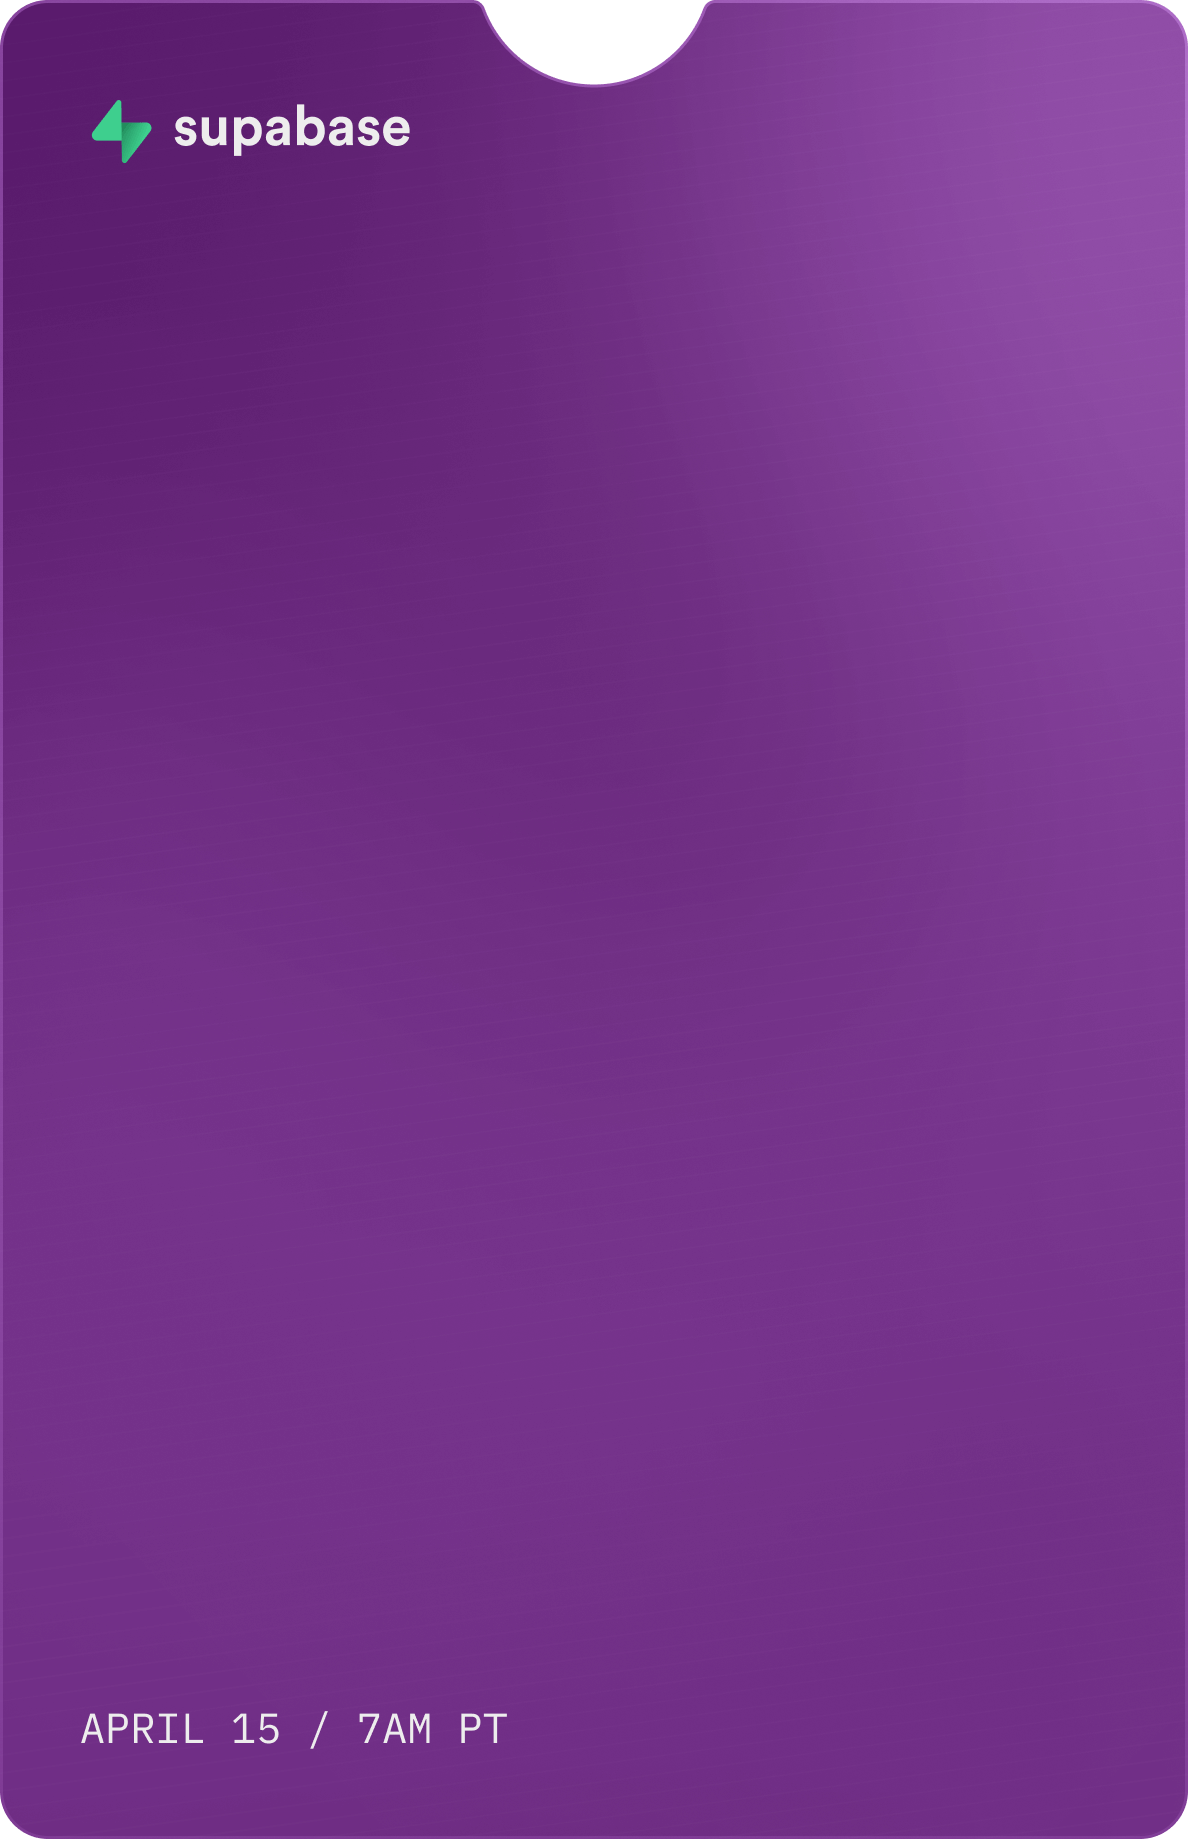
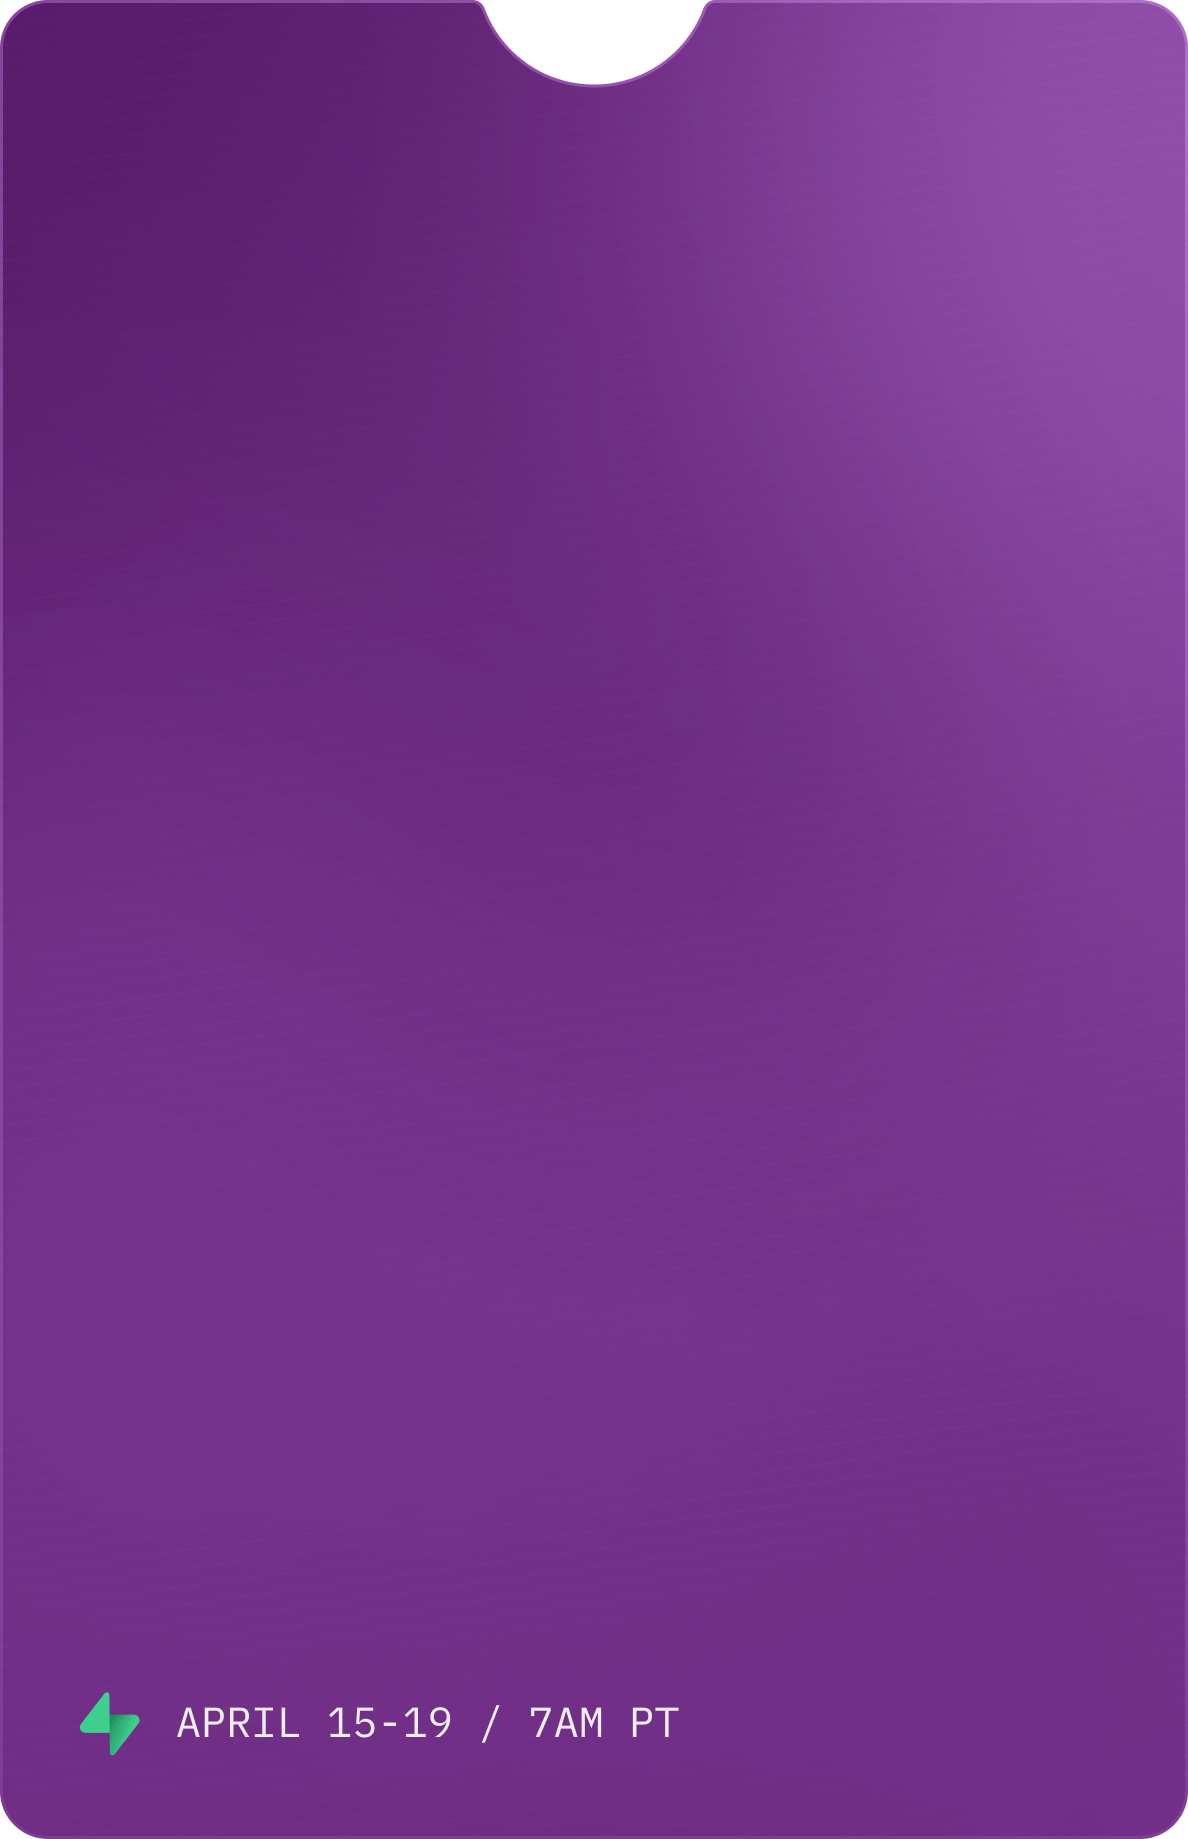
update ticketing page title

diff --git a/apps/www/supabase/functions/lw11-og/handler-prev.tsx b/apps/www/supabase/functions/lw11-og/handler-prev.tsx
@@ -21,20 +21,20 @@ const LW_MATERIALIZED_VIEW = 'lw11_tickets_platinum'
 
 const STYLING_CONGIF = {
   regular: {
-    BACKGROUND: '#f1f1f1',
-    FOREGROUND: '#11181C',
-    FOREGROUND_LIGHT: '#6c7277',
-    TICKET_FOREGROUND: '#F8F9FA',
-    TICKET_FOREGROUND_LIGHT: '#8B9092',
-    BORDER: '#4e4e4e',
-  },
-  platinum: {
     BACKGROUND: '#060809',
     FOREGROUND: '#F8F9FA',
     FOREGROUND_LIGHT: '#8B9092',
+    TICKET_FOREGROUND: '#F8F9FA',
+    TICKET_FOREGROUND_LIGHT: '#8B9092',
+    BORDER: '#303030',
+  },
+  platinum: {
+    BACKGROUND: '#f1f1f1',
+    FOREGROUND: '#11181C',
+    FOREGROUND_LIGHT: '#6c7277',
     TICKET_FOREGROUND: '#11181C',
     TICKET_FOREGROUND_LIGHT: '#6c7277',
-    BORDER: '#adadad',
+    BORDER: '#303030',
   },
   secret: {
     BACKGROUND: '#060809',
@@ -42,7 +42,7 @@ const STYLING_CONGIF = {
     FOREGROUND_LIGHT: '#8B9092',
     TICKET_FOREGROUND: '#F8F9FA',
     TICKET_FOREGROUND_LIGHT: '#F8F9FA',
-    BORDER: '#959595',
+    BORDER: '#303030',
   },
 }
 
@@ -98,7 +98,7 @@ export async function handler(req: Request) {
     const fontData = await font
     const monoFontData = await mono_font
     const numDigits = `${Number(ticketNumber)}`.length
-    const prefix = `00000000`.slice(numDigits)
+    // const prefix = `00000000`.slice(numDigits)
     const HAS_ROLE = !!metadata?.role
     const HAS_COMPANY = !!metadata?.company
     const HAS_LOCATION = !!metadata?.location
@@ -112,36 +112,30 @@ export async function handler(req: Request) {
     const TICKET_RATIO = 396 / 613
     const TICKET_HEIGHT = TICKET_WIDTH / TICKET_RATIO
     const TICKET_POS_TOP = OG_PADDING_Y
-    const TICKET_POS_LEFT = 520
+    const TICKET_POS_LEFT = 470
     const TICKET_PADDING_X = 40
     const TICKET_PADDING_Y = 40
-    const LOGO_WIDTH = 40
-    // const LOGO_RATIO = 581 / 113
-    const LOGO_RATIO = 436 / 449
+    const LOGO_WIDTH = 160
+    const LOGO_RATIO = 145 / 79
     // Select one of 30 pre generated bg images base on ticket number
     const BG_NUMBER = `000${(ticketNumber % 30) + 1}`.slice(-3)
     const profileImg = `https://github.com/${username}.png?size=100`
-    const DISPLAY_NAME = name ?? username
 
     const BACKGROUND = {
       regular: {
-        OG: `${STORAGE_URL}/assets/backgrounds/platinum/${BG_NUMBER}.png`,
-        BG: `${STORAGE_URL}/assets/shape/v2/lw11_ticket_regular.png?t=1`,
-        // LOGO: `${STORAGE_URL}/assets/lw11_logo_white.svg`,
-        // LOGO: `${STORAGE_URL}/assets/supabase/supabase-logo-wordmark--light.png`,
-        LOGO: `${STORAGE_URL}/assets/supabase/supabase-logo-icon.png`,
+        OG: `${STORAGE_URL}/assets/backgrounds/regular/${BG_NUMBER}.png`,
+        BG: `${STORAGE_URL}/assets/shape/lw11_ticket_regular.png?t=as`,
+        LOGO: `${STORAGE_URL}/assets/lw11_logo_white.svg`,
       },
       platinum: {
-        OG: `${STORAGE_URL}/assets/backgrounds/regular/${BG_NUMBER}.png`,
-        BG: `${STORAGE_URL}/assets/shape/v2/lw11_ticket_platinum.png?t=1`,
-        // LOGO: `${STORAGE_URL}/assets/supabase/supabase-logo-wordmark--dark.png`,
-        LOGO: `${STORAGE_URL}/assets/supabase/supabase-logo-icon.png`,
+        OG: `${STORAGE_URL}/assets/backgrounds/platinum/${BG_NUMBER}.png`,
+        BG: `${STORAGE_URL}/assets/shape/lw11_ticket_platinum.png?t=as`,
+        LOGO: `${STORAGE_URL}/assets/lw11_logo_black.svg`,
       },
       secret: {
         OG: `${STORAGE_URL}/assets/backgrounds/secret/${BG_NUMBER}.png`,
-        BG: `${STORAGE_URL}/assets/shape/v2/lw11_ticket_purple.png?t=1`,
-        // LOGO: `${STORAGE_URL}/assets/supabase/supabase-logo-wordmark--dark.png`,
-        LOGO: `${STORAGE_URL}/assets/supabase/supabase-logo-icon.png`,
+        BG: `${STORAGE_URL}/assets/shape/lw11_ticket_purple.png?t=c`,
+        LOGO: `${STORAGE_URL}/assets/lw11_logo_white.svg`,
       },
     }
 
@@ -190,6 +184,8 @@ export async function handler(req: Request) {
                 height: TICKET_HEIGHT,
                 margin: 0,
                 borderRadius: '26px',
+                // border: `1px solid blue`,
+                // boxShadow: '0px 4px 45px rgba(0, 0, 0, 0.1)',
               }}
             >
               <img
@@ -202,33 +198,11 @@ export async function handler(req: Request) {
                   zIndex: '1',
                   margin: 0,
                   borderRadius: '26px',
+                  // border: `1px solid ${STYLING_CONGIF[ticketType].BORDER}`,
+                  // boxShadow: '0px 0px 50px rgba(0, 0, 0, 0.25)',
                 }}
                 src={BACKGROUND[ticketType].BG}
               />
-
-              {/* Ticket No  */}
-              <p
-                style={{
-                  display: 'flex',
-                  justifyContent: 'flex-start',
-                  position: 'absolute',
-                  top: TICKET_PADDING_Y + 15,
-                  left: TICKET_PADDING_X,
-                  textAlign: 'left',
-                  width: '50%',
-                  color: STYLING_CONGIF[ticketType].TICKET_FOREGROUND_LIGHT,
-                  margin: '0',
-                  marginBottom: '5',
-                  fontFamily: '"SourceCodePro"',
-                  fontSize: '16',
-                  textTransform: 'uppercase',
-                  letterSpacing: '0.35rem',
-                  lineHeight: '120%',
-                  opacity: 0.65,
-                }}
-              >
-                {`NO ${prefix}${ticketNumber}`}
-              </p>
 
               {/* Name & username */}
               <div
@@ -246,7 +220,6 @@ export async function handler(req: Request) {
                   textOverflow: 'clip',
                   textAlign: 'left',
                   marginBottom: '10px',
-                  paddingBottom: '10px',
                 }}
               >
                 {HAS_AVATAR && (
@@ -260,6 +233,7 @@ export async function handler(req: Request) {
                       marginBottom: 10,
                       borderRadius: '100%',
                       border: `1px solid ${STYLING_CONGIF[ticketType].BORDER}`,
+                      // boxShadow: '0px 0px 50px rgba(0, 0, 0, 0.25)',
                     }}
                     src={profileImg}
                   />
@@ -273,12 +247,9 @@ export async function handler(req: Request) {
                     lineHeight: '105%',
                     display: 'flex',
                     marginBottom: '6px',
-                    paddingBottom: '6px',
-                    overflow: 'hidden',
-                    maxHeight: '200px',
                   }}
                 >
-                  {DISPLAY_NAME}
+                  {name ?? username}
                 </p>
 
                 <div
@@ -288,9 +259,6 @@ export async function handler(req: Request) {
                     display: 'flex',
                     fontSize: '32',
                     margin: '0',
-                    overflow: 'hidden',
-                    maxHeight: '90px',
-                    paddingBottom: '6px',
                   }}
                 >
                   {HAS_NO_META && username && `@${username}`}
@@ -299,6 +267,27 @@ export async function handler(req: Request) {
                 </div>
               </div>
             </div>
+            {/* Ticket No  */}
+            {/* <p
+              style={{
+                display: 'flex',
+                position: 'absolute',
+                bottom: TICKET_PADDING_Y,
+                left: TICKET_PADDING_X + TICKET_POS_LEFT,
+                width: '50%',
+                color: STYLING_CONGIF[ticketType].TICKET_FOREGROUND_LIGHT,
+                margin: '0',
+                marginBottom: '5',
+                fontFamily: '"SourceCodePro"',
+                fontSize: '23',
+                textTransform: 'uppercase',
+                letterSpacing: '0.35rem',
+                lineHeight: '120%',
+                // border: '1px solid white',
+              }}
+            >
+              {`NO ${prefix}${ticketNumber}`}
+            </p> */}
 
             <div
               style={{
@@ -310,20 +299,14 @@ export async function handler(req: Request) {
                 flexDirection: 'column',
                 width: TICKET_POS_LEFT - OG_PADDING_X,
                 alignItems: 'flex-start',
-                justifyContent: 'center',
-                letterSpacing: '0.15rem',
-                lineHeight: '110%',
+                fontFamily: '"SourceCodePro"',
+                fontSize: 34,
+                textTransform: 'uppercase',
+                letterSpacing: '0.35rem',
+                lineHeight: '120%',
               }}
             >
-              <div
-                style={{
-                  display: 'flex',
-                  position: 'absolute',
-                  top: 10,
-                  left: 0,
-                  marginBottom: '40',
-                }}
-              >
+              <div style={{ display: 'flex', marginBottom: '40' }}>
                 <img
                   src={BACKGROUND[ticketType].LOGO}
                   width={LOGO_WIDTH}
@@ -333,42 +316,19 @@ export async function handler(req: Request) {
 
               <p
                 style={{
-                  display: 'flex',
-                  flexDirection: 'column',
-                  marginBottom: 60,
-                  fontSize: 48,
-                  color: STYLING_CONGIF[ticketType].FOREGROUND_LIGHT,
+                  margin: '0',
                 }}
               >
-                <span
-                  style={{
-                    display: 'flex',
-                    margin: 0,
-                    color: STYLING_CONGIF[ticketType].FOREGROUND_LIGHT,
-                  }}
-                >
-                  Join us for a
-                </span>
-                <span
-                  style={{
-                    display: 'flex',
-                    margin: 0,
-                    color: STYLING_CONGIF[ticketType].FOREGROUND,
-                  }}
-                >
-                  Special Event
-                </span>
+                April 15
               </p>
               <p
                 style={{
-                  margin: '0',
-                  fontFamily: '"SourceCodePro"',
-                  fontSize: 26,
-                  textTransform: 'uppercase',
+                  display: 'flex',
+                  margin: 0,
                   color: STYLING_CONGIF[ticketType].FOREGROUND_LIGHT,
                 }}
               >
-                April 15-19 / 7AM PT
+                7AM PT
               </p>
             </div>
           </div>

diff --git a/apps/www/components/LaunchWeek/11/Ticket/TicketingFlow.tsx b/apps/www/components/LaunchWeek/11/Ticket/TicketingFlow.tsx
@@ -78,12 +78,14 @@ const TicketingFlow = () => {
                     animate={animate}
                     exit={exit}
                     className={cn(
-                      'w-full min-h-[400px] max-w-2xl mx-auto flex flex-col justify-center gap-4 md:gap-8 transition-all opacity-0 invisible',
+                      'w-full min-h-[400px] max-w-2xl mx-auto flex flex-col justify-center gap-4 md:gap-8 lg:gap-12 transition-all opacity-0 invisible',
                       !isGameMode && !hasTicket && 'opacity-100 visible'
                     )}
                   >
                     <div className="flex flex-col gap-2">
-                      <h2 className="text-foreground text-3xl md:text-4xl">Special Announcement</h2>
+                      <h2 className="text-foreground-lighter text-3xl md:text-4xl">
+                        Join us for a<span className="block text-foreground">Special Event</span>
+                      </h2>
                       <CountdownComponent
                         date={LW11_LAUNCH_DATE}
                         showCard={false}
@@ -91,15 +93,10 @@ const TicketingFlow = () => {
                       />
                     </div>
                     <p className="text-foreground-lighter text-xl md:text-2xl">
-                      Supabase is{' '}
-                      <strong className="font-normal text-foreground">
-                        officially launching into General Availability
-                      </strong>
-                      .<br className="hidden sm:block" /> Join us in this major milestone and
-                      explore all the features that come with it.
+                      Celebrate a major milestone with us and explore all the features that come
+                      with it.
                     </p>
                     <div className="flex flex-col gap-1 font-mono uppercase text-sm">
-                      <p>Supabase Launch Week 11</p>
                       <p className="-mb-1">{LW11_DATE}</p>
                     </div>
                     <TicketForm />

diff --git a/apps/www/components/LaunchWeek/11/Ticket/Ticket.tsx b/apps/www/components/LaunchWeek/11/Ticket/Ticket.tsx
@@ -8,12 +8,18 @@ import Panel from '~/components/Panel'
 import useConfData from '~/components/LaunchWeek/hooks/use-conf-data'
 import TicketProfile from './TicketProfile'
 import TicketCustomizationForm from './TicketCustomizationForm'
+import TicketNumber from './TicketNumber'
 
 export default function Ticket() {
   const ticketRef = useRef<HTMLDivElement>(null)
   const { userData: user, showCustomizationForm, setShowCustomizationForm } = useConfData()
   const isMobile = useBreakpoint()
-  const { platinum = false, bg_image_id: bgImageId = '1', secret: hasSecretTicket } = user
+  const {
+    platinum = false,
+    bg_image_id: bgImageId = '1',
+    secret: hasSecretTicket,
+    ticketNumber,
+  } = user
   const [imageHasLoaded, setImageHasLoaded] = useState(false)
   const params = useParams()
   const sharePage = !!params.username
@@ -63,6 +69,12 @@ export default function Ticket() {
         shimmerToColor="hsl(var(--background-default))"
         style={{ transform: 'translateZ(-10px)' }}
       >
+        <TicketNumber
+          number={ticketNumber}
+          platinum={platinum}
+          secret={hasSecretTicket}
+          className="absolute z-20 top-8 left-6"
+        />
         <TicketProfile className="absolute inset-0 h-full p-6 top-20 bottom-20 z-30 flex flex-col justify-between w-full flex-1 overflow-hidden" />
         <Image
           src={ticketBg[ticketType].background}

diff --git a/apps/www/components/LaunchWeek/11/Ticket/TicketNumber.tsx b/apps/www/components/LaunchWeek/11/Ticket/TicketNumber.tsx
@@ -2,10 +2,17 @@ import { cn } from 'ui'
 
 type Props = {
   number: number | undefined
-  golden?: boolean
+  secret?: boolean
+  platinum?: boolean
+  className?: string
 }
 
-export default function TicketNumber({ number, golden = false }: Props) {
+export default function TicketNumber({
+  number,
+  platinum = false,
+  secret = false,
+  className,
+}: Props) {
   const numDigits = `${number}`.length
   const prefix = `00000000`.slice(numDigits)
   const ticketNumberText = `NO ${prefix}${number}`
@@ -13,7 +20,11 @@ export default function TicketNumber({ number, golden = false }: Props) {
   return (
     // [text-shadow:_0_0_2px_rgb(255_255_255_/_50%)]
     <span
-      className={cn('w-[max-content] leading-[1]', golden ? 'text-[#7E868C]' : 'text-[#575E61]')}
+      className={cn(
+        'w-[max-content] leading-[1] font-mono tracking-[.15rem] text-xs',
+        secret ? 'text-[#8b818c]' : platinum ? 'text-[#999a9b]' : 'text-[#545758]',
+        className
+      )}
     >
       {ticketNumberText}
     </span>
